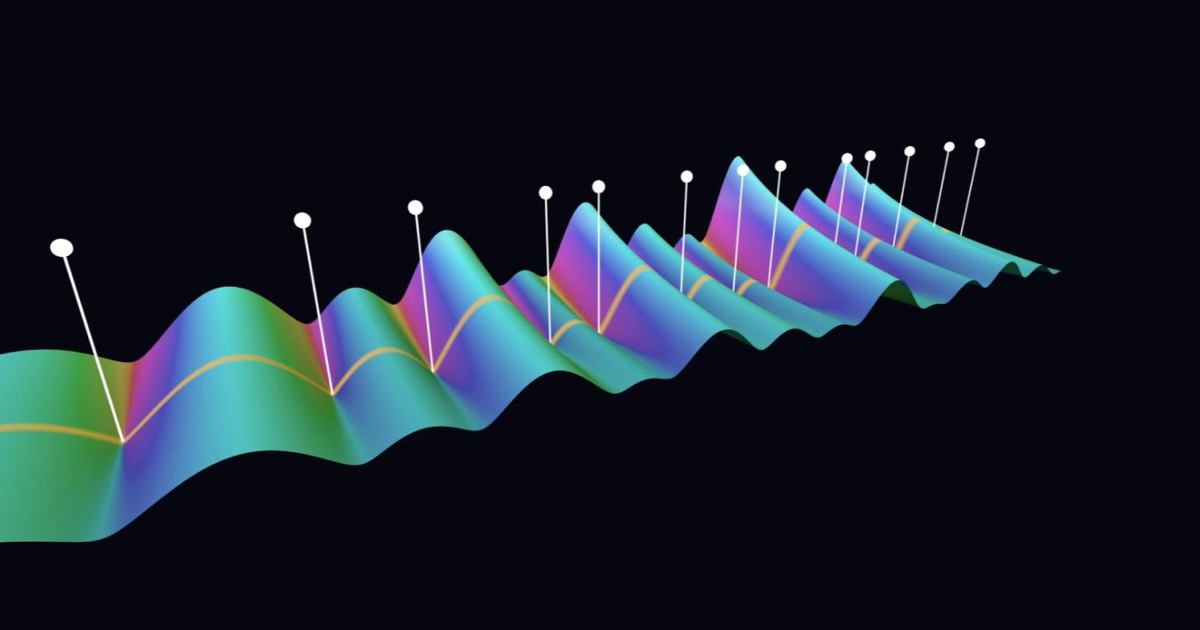
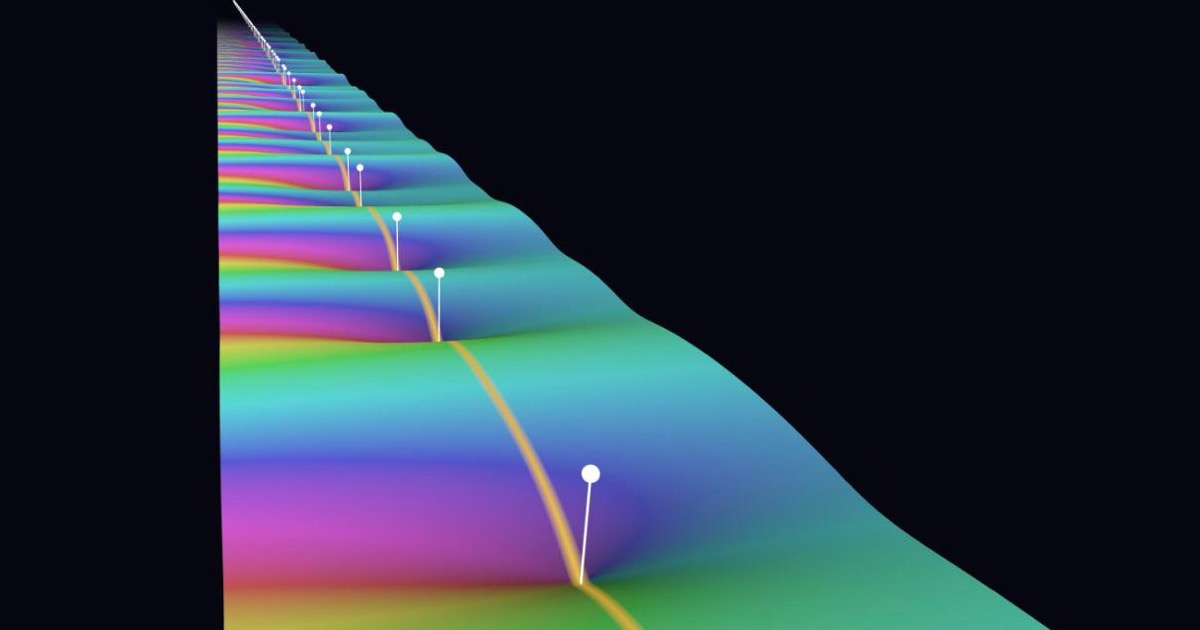
The whole road: 100 zeros, a dated status line, and the plan's steps 1 and 2 (#5)
index.html now draws the land from Re(s) = -0.5 to 1.5 for heights 0 to
237, with pins on the first 100 nontrivial zeros and a roll call that
lights each pin only if its zero passes the self-check.

- zeta is computed on a grid by Euler-Maclaurin summation (worst error
  8e-4 against mpmath over the baked region). The old Borwein routine
  was only good to height 60.
- Height is (2/pi) atan|zeta|, so the pole fits and every zero is a pit.
- The road stops at 237 because zeros 101 and 102 are at 237.77 and
  239.56 and would have no pin.
- Two self-checks: every listed zero is a zero, and the mesh is not
  flipped (checked by world position).
- The start view looks north up the road. Auto-rotate is removed.

The page and the README now carry one dated, attributed sentence about
the 20 Nov 2026 Lean proof. PLAN.md marks steps 1 and 2 done.

The scene was built and tested as a scratch page by the planning
session; this change ports it with its test switches removed.

diff --git a/index.html b/index.html
@@ -31,24 +31,28 @@
   p, details { margin: .5rem 0 0; }
   .tag { color: #f5c542; }
   .small { font-size: .85rem; color: #b9b6cc; }
+  #count { position: fixed; top: 0; right: 0; margin: 1rem 1.5rem; color: #f5c542; font-size: 1.5rem; font-variant-numeric: tabular-nums; pointer-events: none; }
   a, summary { color: #8fd3ff; pointer-events: auto; }
   summary { cursor: pointer; }
-  @media (max-width: 30rem) { h1 { font-size: 2rem; } main { font-size: .9rem; padding: 1rem; border-radius: 0; } }
+  @media (max-width: 30rem) { h1 { font-size: 2rem; } main { font-size: .9rem; padding: 1rem; border-radius: 0; } #proof-status { display: none; } #count { font-size: 1rem; margin: .5rem .75rem; } }   /* phones: the status would leave no room for the scene */
   @media (max-height: 30rem) and (orientation: landscape) { .long { display: none; } }
 </style>
 </head>
 <body>
-<canvas id="world" role="img" aria-label="3D terrain showing the size of the Riemann zeta function over the critical strip. Thirteen pins mark its first zeros, all on the gold line where the real part is one half."></canvas>
+<canvas id="world" role="img" aria-label="3D terrain showing the size of the Riemann zeta function. One hundred pins mark its first nontrivial zeros, all on the gold line where the real part is one half."></canvas>
+<!-- The roll-call counter. It sits outside the text panel so it stays readable on a shared screen. -->
+<p id="count"></p>
 <main>
   <h1>Zeta World</h1>
   <p class="tag">The Riemann hypothesis, as a place you can look at.</p>
-  <p class="long">This landscape is the size of the Riemann zeta function, which encodes how the prime numbers are spread out. Each pin stands on a zero, where the land drops to height zero. These are the first 13 of infinitely many. The Riemann hypothesis says they all sit on the gold line.</p>
-  <p class="long small">Posed in 1859. Trillions of zeros have been checked by computer and every one is on the line. This page shows what the hypothesis says. It proves nothing.</p>
+  <p class="long">This landscape is the size of the Riemann zeta function, which encodes how the prime numbers are spread out. Each pin stands on a zero, where the land drops to height zero. These are the first 100 of infinitely many. The Riemann hypothesis says they all sit on the gold line.</p>
+  <!-- The one place this page says anything about proof. Keep it dated and attributed. -->
+  <p class="long small" id="proof-status">Status, 22 Nov 2026: a computer-checked proof of the Riemann hypothesis was released on 20 Nov and certified correct on 21 Nov in a <a href="https://leanprover-community.github.io/blog/posts/riemann-hypothesis/">joint statement of the Lean and Mathlib communities</a>. Its author has published it only as Lean code, with no paper yet, and it has not been peer reviewed. This page shows what the statement says. It proves nothing.</p>
   <!-- The script replaces this once the scene is running, so it also covers no JavaScript and a blocked CDN. -->
   <p class="small" id="status">Loading the 3D view. It needs JavaScript and WebGL.</p>
   <details class="small">
     <summary>How to read it</summary>
-    Height is |ζ(s)| over the critical strip, Re(s) from 0 to 1, drawn for Im(s) from 0 to 60. The hypothesis is about the zeros inside this strip. Color is the phase of ζ(s): cyan where it is positive, red where it is negative. The gold line is Re(s) = ½. The cut-off spike at one end is the pole at s = 1, where ζ is infinite.
+    Height is the size of ζ(s), squashed so the infinite pole fits: (2/π) atan |ζ(s)|. The land covers Re(s) from −0.5 to 1.5 and Im(s) from 0 to 237. Color is the phase of ζ(s): cyan where it is positive, red where it is negative. The gold line is Re(s) = ½, the middle of the critical strip (Re(s) from 0 to 1), which holds every nontrivial zero. The mound at the south end is the pole at s = 1, where ζ is infinite.
   </details>
   <p class="small">An early build for Sundai Hack 150. <a href="https://github.com/Alex-lop/zeta-world">Source on GitHub</a></p>
 </main>
@@ -57,44 +61,80 @@
 import * as THREE from 'three';
 import { OrbitControls } from 'three/addons/controls/OrbitControls.js';
 
+// ---- layout: tuned by eye in headless Chrome, 22 Nov -------------------------
+const WIDTH = 4, LEN = 1, RISE = 1;                // world units per unit of Re(s), per unit of Im(s), and the height of the pole.
+                                                   // RISE / LEN must stay near 1: a zero is a cone, and at 6 its walls hide every pit from a low camera
+const SIG0 = -0.5, SIG1 = 1.5, NS = 64, NT = 4096;
+const T_MAX = 237;                                 // the road ends between zero 100 (236.52) and zero 101 (237.77), so every well has a pin
+const FOG0 = 45, FOG1 = 130, FOG_H = 6.5;          // fog from 45 to 130 up to the start pose's height. Above that it scales with height
+const PIN = 1.5 * RISE, HEAD = 0.1;                // pin height and head radius
+const LUM0 = 0.06, LUM1 = 0.5;                     // lightness at the floor and how much full height adds: pits must read as dark
+const ROLL_MS = 40;                                // roll call: one pin every 40 ms, 4 s for all 100
+
 // ---- the math --------------------------------------------------------------
-// zeta(sigma + i t) by Borwein's algorithm (2000) for the alternating eta series:
-//   eta(s) = sum_k W[k] (k+1)^-s,   zeta(s) = eta(s) / (1 - 2^(1-s)).
-// Checked against mpmath at every vertex drawn (41 x 601): worst error 1e-12, at s = 1 + 54.4i.
-// Not uniform: the division is 0/0 at s = 1 + 2 pi i k / ln 2 (t = 9.06, 18.13, ... 54.39 on the sigma = 1 edge)
-// and the error grows like 1/distance to those points. Re-run the check if NS, NT or T_MAX change.
-// ponytail: N = 80 terms only holds to t ~ 60 (need N ~ 0.9 t + 25). Raise N with T_MAX,
-// and switch to Riemann-Siegel if the world ever goes past t of a few hundred.
-const N = 80, T_MAX = 60;
-const D = [];
-for (let i = 0, term = 1 / N, sum = 0; i <= N; i++) {
-  sum += term; D.push(N * sum);
-  term *= 4 * (N + i) * (N - i) / ((2 * i + 1) * (2 * i + 2));
-}
-const W = D.slice(0, N).map((d, k) => (k % 2 ? -1 : 1) * (1 - d / D[N]));
-const LN = W.map((_, k) => Math.log(k + 1));
+// Heights (imaginary parts) of the first 100 nontrivial zeros, from mpmath.zetazero.
+const ZEROS = [
+  14.134725, 21.022040, 25.010858, 30.424876, 32.935062, 37.586178, 40.918719, 43.327073, 48.005151, 49.773832,
+  52.970321, 56.446248, 59.347044, 60.831779, 65.112544, 67.079811, 69.546402, 72.067158, 75.704691, 77.144840,
+  79.337375, 82.910381, 84.735493, 87.425275, 88.809111, 92.491899, 94.651344, 95.870634, 98.831194, 101.317851,
+  103.725538, 105.446623, 107.168611, 111.029536, 111.874659, 114.320221, 116.226680, 118.790783, 121.370125, 122.946829,
+  124.256819, 127.516684, 129.578704, 131.087689, 133.497737, 134.756510, 138.116042, 139.736209, 141.123707, 143.111846,
+  146.000982, 147.422765, 150.053520, 150.925258, 153.024694, 156.112909, 157.597592, 158.849988, 161.188964, 163.030710,
+  165.537069, 167.184440, 169.094515, 169.911976, 173.411537, 174.754192, 176.441434, 178.377408, 179.916484, 182.207078,
+  184.874468, 185.598784, 187.228923, 189.416159, 192.026656, 193.079727, 195.265397, 196.876482, 198.015310, 201.264752,
+  202.493595, 204.189672, 205.394697, 207.906259, 209.576510, 211.690863, 213.347919, 214.547045, 216.169539, 219.067596,
+  220.714919, 221.430706, 224.007000, 224.983325, 227.421444, 229.337413, 231.250189, 231.987235, 233.693404, 236.524230,
+];
 
-function zeta(sigma, t) {                       // returns [re, im]
-  let er = 0, ei = 0;
-  for (let k = 0; k < N; k++) {
-    const m = W[k] * Math.exp(-sigma * LN[k]), a = t * LN[k];
-    er += m * Math.cos(a); ei -= m * Math.sin(a);
+// zeta(sigma + i t) on a (ns+1) x (nt+1) vertex grid by Euler-Maclaurin summation: N terms plus 3 Bernoulli corrections.
+// Returns { re, im } as Float32Arrays, index j * (ns + 1) + i, with i along sigma and j along t.
+// cos and sin depend only on (t, n) and n^-sigma only on (sigma, n), so the inner loop is two multiply-adds.
+// N = 128 is good to t of about 400. Keep t below about 3 N.
+function zetaGrid(sig0, sig1, ns, t0, t1, nt, N = 128) {
+  const W = ns + 1, H = nt + 1, re = new Float32Array(W * H), im = new Float32Array(W * H);
+  const ln = new Float64Array(N + 1), pw = new Float64Array(N * W), sr = new Float64Array(W), si = new Float64Array(W);
+  for (let n = 1; n <= N; n++) {
+    ln[n] = Math.log(n);
+    for (let i = 0; i < W; i++) pw[(n - 1) * W + i] = Math.exp(-(sig0 + (sig1 - sig0) * i / ns) * ln[n]);
   }
-  const m = 2 ** (1 - sigma), a = t * Math.LN2, dr = 1 - m * Math.cos(a), di = m * Math.sin(a), q = dr * dr + di * di;
-  return [(er * dr + ei * di) / q, (ei * dr - er * di) / q];
+  for (let j = 0; j < H; j++) {
+    const t = t0 + (t1 - t0) * j / nt;
+    sr.fill(0); si.fill(0);
+    for (let n = 1; n < N; n++) {                                   // sum of n^-s for n < N
+      const c = Math.cos(t * ln[n]), s = -Math.sin(t * ln[n]), row = (n - 1) * W;
+      for (let i = 0; i < W; i++) { const m = pw[row + i]; sr[i] += m * c; si[i] += m * s; }
+    }
+    const c = Math.cos(t * ln[N]), s = -Math.sin(t * ln[N]), N2 = N * N;
+    for (let i = 0; i < W; i++) {
+      const sg = sig0 + (sig1 - sig0) * i / ns, m = pw[(N - 1) * W + i], pr = m * c, pi = m * s;   // p = N^-s
+      const a = sg - 1, d = a * a + t * t, k0 = j * W + i;
+      if (d < 1e-20) { re[k0] = Infinity; im[k0] = 0; continue; }   // the pole at s = 1
+      let zr = sr[i] + 0.5 * pr + N * (pr * a + pi * t) / d, zi = si[i] + 0.5 * pi + N * (pi * a - pr * t) / d;   // + N^-s / 2 + N^(1-s) / (s-1)
+      let wr = sg, wi = t, ur = pr / N, ui = pi / N, x;             // w = s (s+1) ..., u = N^(-s-2k+1)
+      zr += (wr * ur - wi * ui) / 12; zi += (wr * ui + wi * ur) / 12;
+      for (const [k, cf] of [[1, -1 / 720], [3, 1 / 30240]]) {
+        x = wr * (sg + k) - wi * t; wi = wr * t + wi * (sg + k); wr = x;
+        x = wr * (sg + k + 1) - wi * t; wi = wr * t + wi * (sg + k + 1); wr = x;
+        ur /= N2; ui /= N2;
+        zr += cf * (wr * ur - wi * ui); zi += cf * (wr * ui + wi * ur);
+      }
+      re[k0] = zr; im[k0] = zi;
+    }
+  }
+  return { re, im };
 }
 
-// Imaginary parts of the first 13 nontrivial zeros (all those with t < 60), from mpmath.zetazero.
-const ZEROS = [14.134725, 21.022040, 25.010858, 30.424876, 32.935062, 37.586178, 40.918719,
-               43.327073, 48.005151, 49.773832, 52.970321, 56.446248, 59.347044];
-console.assert(ZEROS.every(t => Math.hypot(...zeta(0.5, t)) < 1e-5), 'zeta self-check failed: a listed zero is not a zero');
+// Self-check: every listed zero is a zero, and zeta(2) = pi^2 / 6.
+const size = (sigma, t) => { const z = zetaGrid(sigma, sigma, 1, t, t, 1); return Math.hypot(z.re[0], z.im[0]); };
+const CHECKED = ZEROS.map(t => size(0.5, t) < 1e-4), ZETA2_OK = Math.abs(size(2, 0) - Math.PI ** 2 / 6) < 1e-6;
+console.assert(CHECKED.every(Boolean) && ZETA2_OK, 'zeta self-check failed');
 
 // ---- the world -------------------------------------------------------------
-// x = WIDTH * (Re(s) - 1/2), z = T_MAX/2 - Im(s) (t = 0 is the end nearest the start camera), y = |zeta(s)| capped at CAP.
-const WIDTH = 12, NS = 40, NT = 600, CAP = 9;   // CAP only flattens the pole at s = 1
-const zOf = t => T_MAX / 2 - t;
+// x = WIDTH * (Re(s) - 1/2), z = LEN * (T_MAX / 2 - Im(s)): north is -z, so east is on the right looking up the road.
+// y = RISE * (2 / pi) * atan|zeta(s)|: a zero is a pit to the floor and the pole s = 1 is a spire of height RISE.
+const xOf = sigma => WIDTH * (sigma - 0.5), zOf = t => LEN * (T_MAX / 2 - t);
 
-const canvas = document.getElementById('world'), panel = document.querySelector('main'), status = document.getElementById('status');
+const canvas = document.getElementById('world'), panel = document.querySelector('main'), status = document.getElementById('status'), count = document.getElementById('count');
 let renderer;
 try { renderer = new THREE.WebGLRenderer({ canvas, antialias: true }); }
 catch (e) { status.textContent = 'This browser could not start WebGL, so the 3D view is off.'; throw e; }
@@ -102,45 +142,61 @@ renderer.setPixelRatio(Math.min(devicePixelRatio, 2));
 
 const scene = new THREE.Scene();
 scene.background = new THREE.Color(0x05060f);
-scene.fog = new THREE.Fog(0x05060f, 45, 130);
+scene.fog = new THREE.Fog(0x05060f, FOG0, FOG1);   // the render loop rescales it
 scene.add(new THREE.HemisphereLight(0xffffff, 0x1a1a3a, 1.6));
 const sun = new THREE.DirectionalLight(0xffffff, 2.2);
 sun.position.set(30, 25, 20);
 scene.add(sun);
 
-const terrain = new THREE.PlaneGeometry(WIDTH, T_MAX, NS, NT).rotateX(-Math.PI / 2);
+// Baked north to south (t from T_MAX down to 0): that is PlaneGeometry's row order after rotateX(-90 deg),
+// so the grid index is the vertex index and the fill loop needs no arithmetic.
+const { re, im } = zetaGrid(SIG0, SIG1, NS, T_MAX, 0, NT);
+
+const terrain = new THREE.PlaneGeometry(WIDTH * (SIG1 - SIG0), LEN * T_MAX, NS, NT).rotateX(-Math.PI / 2);
 const pos = terrain.attributes.position, colors = new Float32Array(pos.count * 3), c = new THREE.Color();
+const ROAD = NS * (0.5 - SIG0) / (SIG1 - SIG0);                             // the vertex column of Re(s) = 1/2
 for (let v = 0; v < pos.count; v++) {
-  const i = v % (NS + 1), sigma = i / NS, t = zOf(pos.getZ(v));
-  const [re, im] = zeta(sigma, t), a = Math.hypot(re, im), h = a < CAP ? a : CAP;   // the pole s = 1 gives NaN, which lands on CAP
-  pos.setY(v, h);
-  if (i === NS / 2) c.set(0xf5c542);                                         // the critical line, painted on
-  else c.setHSL((Math.atan2(im, re) / (2 * Math.PI) + 0.5) || 0, 0.75, 0.22 + 0.33 * Math.min(h / 4, 1));   // +0.5: positive real is cyan, so the gold line stands out
+  const y = RISE * (2 / Math.PI) * Math.atan(Math.hypot(re[v], im[v]));     // the pole is Infinity, which atan turns into RISE
+  pos.setY(v, y);
+  if (v % (NS + 1) === ROAD) c.set(0xf5c542);                               // the critical line, painted on
+  else c.setHSL(Math.atan2(im[v], re[v]) / (2 * Math.PI) + 0.5, 0.75, LUM0 + LUM1 * y / RISE);   // +0.5: positive real is cyan, so the gold line stands out
   c.toArray(colors, v * 3);
 }
 terrain.setAttribute('color', new THREE.BufferAttribute(colors, 3));
+// Mesh self-check, by world position: a north-south flip would lift the first pit, an east-west flip would move the spire off Re(s) = 1.
+const vPit = Math.round((1 - ZEROS[0] / T_MAX) * NT) * (NS + 1) + ROAD, vPole = NT * (NS + 1) + NS * (1 - SIG0) / (SIG1 - SIG0);
+console.assert(Math.abs(pos.getZ(vPit) - zOf(ZEROS[0])) < LEN * T_MAX / NT && pos.getY(vPit) < 0.05 * RISE
+  && Math.hypot(pos.getX(vPole) - xOf(1), pos.getZ(vPole) - zOf(0)) < 1e-3 && pos.getY(vPole) === RISE, 'terrain self-check failed: the mesh is flipped');
 terrain.computeVertexNormals();
 scene.add(new THREE.Mesh(terrain, new THREE.MeshStandardMaterial({ vertexColors: true, roughness: 0.55, metalness: 0.1, side: THREE.DoubleSide })));
 
-// Pin heads sit on top (y = 7, above every ridge away from the pole) so no ridge hides them; the stalk's foot is the zero.
-const pin = new THREE.CylinderGeometry(0.04, 0.04, 7).translate(0, 3.5, 0), head = new THREE.SphereGeometry(0.28, 16, 12).translate(0, 7, 0);
-const glow = new THREE.MeshBasicMaterial({ color: 0xffffff, fog: false });
-for (const t of ZEROS) {
-  const marker = new THREE.Group().add(new THREE.Mesh(pin, glow), new THREE.Mesh(head, glow));
+// Pin heads sit above everything (the land never exceeds RISE) so no ridge hides them; the stalk's foot is the zero.
+const pin = new THREE.CylinderGeometry(HEAD / 7, HEAD / 7, PIN).translate(0, PIN / 2, 0), head = new THREE.SphereGeometry(HEAD, 16, 12).translate(0, PIN, 0);
+const dim = new THREE.MeshBasicMaterial({ color: 0x4a4d66 }), glow = new THREE.MeshBasicMaterial({ color: 0xffffff, fog: false });
+const markers = ZEROS.map(t => {
+  const marker = new THREE.Group().add(new THREE.Mesh(pin, dim), new THREE.Mesh(head, dim));
   marker.position.set(0, 0, zOf(t));
   scene.add(marker);
+  return marker;
+});
+
+// Roll call: pins light up south to north, and a pin only lights (and counts) if its zero passed the self-check above.
+const still = matchMedia('(prefers-reduced-motion: reduce)').matches;
+let lit = 0, passed = 0;
+function rollCall(ms) {
+  const n = still ? ZEROS.length : Math.min(ZEROS.length, ms / ROLL_MS);
+  if (lit >= n) return;
+  for (; lit < n; lit++) if (CHECKED[lit]) { passed++; for (const m of markers[lit].children) m.material = glow; }
+  count.textContent = `${passed} / ${ZEROS.length} zeros checked`;
 }
 
-const camera = new THREE.PerspectiveCamera(50, 1, 0.1, 400);
-camera.position.set(26, 13, 10);                // from the Re(s) = 1 side, so t runs left to right
+const camera = new THREE.PerspectiveCamera(50, 1, 0.1, 1000);
+camera.position.set(-3.5, 6.5, zOf(7));          // start pose: west of the road at Im(s) = 7, low, looking north up it
 const controls = new OrbitControls(camera, canvas);
-controls.target.set(0, 1, -3);
+controls.target.set(0, 0, zOf(22));              // 23 degrees down: any lower and the ridge south of each pit hides it
 controls.enableDamping = true;
 controls.maxPolarAngle = Math.PI * 0.49;        // stay above the floor
-controls.minDistance = 4; controls.maxDistance = 110;
-controls.autoRotate = !matchMedia('(prefers-reduced-motion: reduce)').matches;
-controls.autoRotateSpeed = 0.35;
-controls.addEventListener('start', () => { controls.autoRotate = false; });
+controls.minDistance = 2; controls.maxDistance = 300;   // 300 fits the whole road on screen
 
 function resize() {
   // Portrait: frame the scene in the space above the text, and widen the view so the whole strip still fits.
@@ -153,10 +209,12 @@ addEventListener('resize', resize);
 panel.querySelector('details').addEventListener('toggle', resize);         // the panel's height just changed
 resize();
 
-let last = performance.now();
+const start = performance.now();
 renderer.setAnimationLoop(now => {
-  controls.update(Math.min((now - last) / 1000, 0.1));                      // seconds, so auto-rotate ignores the refresh rate
-  last = now;
+  rollCall(now - start);
+  controls.update();
+  const k = Math.max(camera.position.y / FOG_H, 1);                         // fog thins as the camera climbs: low down the road vanishes into it,
+  scene.fog.near = FOG0 * k; scene.fog.far = FOG1 * k;                      // from high up the whole road is clear
   renderer.render(scene, camera);
 });
 status.textContent = 'Drag to orbit, scroll or pinch to zoom.';

diff --git a/PLAN.md b/PLAN.md
@@ -9,9 +9,9 @@ Zeta landscapes and "zeros build the primes" sliders have been made many times, 
 ## Where things stand
 
 - **Live page:** https://alex-lop.github.io/zeta-world/ (GitHub Pages, served from `main` at the repo root). It is one `index.html`, no build step, with three.js 0.187.0 loaded from jsDelivr through an import map.
-- **What it shows:** the terrain of `|ζ(s)|` over the critical strip for heights 0 to 60, coloured by phase, the line Re(s) = 1/2 in gold, and pins on the first 13 zeros. The camera orbits.
-- **What it lacks:** the other 87 zeros, anything about primes, a guided path, and any sign of what is proven and what is claimed.
-- **Step 2 of this plan has been built once already,** in a scratch copy outside the repo, to test the plan. It works: all 100 zeros, the long road, a counter, and a start view of pits in a straight row running into fog. See build step 2 for where it is.
+- **What it shows:** the land from Re(s) = -0.5 to 1.5 for heights 0 to 237, coloured by phase, the gold line Re(s) = 1/2 with pins on the first 100 zeros, a roll-call counter, and the dated status line.
+- **What it lacks:** anything about primes, the walls and slabs, and a guided path.
+- **Build steps 1 and 2 are done and on `main`** (22 Nov, mid-afternoon). The work left starts at step 0, the card, and step 3, the primes panel.
 - **A second page is in an open pull request** (PR #2, from a teammate): `landscape.html`, a free explorer. See "Two pages" below.
 
 How the README's five steps map onto this plan:
@@ -19,8 +19,8 @@ How the README's five steps map onto this plan:
 | README step | State now | In this plan |
 |---|---|---|
 | 1. Understand it first | not written down | "The math in plain words" below |
-| 2. First picture (terrain) | done to height 60 | build step 2 extends it to height 237 |
-| 3. Mark the zeros | 13 of 100 | build step 2 |
+| 2. First picture (terrain) | done to height 237 | build step 2, done |
+| 3. Mark the zeros | 100 of 100 | build step 2, done |
 | 4. Zeros build the primes | not started | build step 3, the centre of the demo |
 | 5. Stretch: quasi-RH marker | not started | promoted to build step 4: it is cheap and now verified |
 | 5. Stretch: sound | not started | stretch idea 3 |
@@ -68,9 +68,9 @@ At an AI hack two days later, a flat "unproven" will look stale and a flat "prov
 
 Where the text stands today:
 
-- **`index.html`** was changed this afternoon to wording that asserts nothing either way: "This page shows what the hypothesis says. It proves nothing." That is safe as it is.
-- **`README.md`** still says "not proven" under "Status of the math" and "the most famous unsolved problem in math" in its opening.
-- **Left to decide:** whether the dated sentence goes on screen. I recommend yes, because the slabs in build step 4 need their dates to mean anything. If yes, it replaces the last two sentences of the page's "Posed in 1859" paragraph, which say nearly the same thing as the end of the recommended status.
+- **`index.html`** now carries the dated sentence above, in the paragraph with id `proof-status`. That paragraph is the one place the page says anything about proof.
+- **`README.md`** carries the same sentence under "Status of the math".
+- **Decided 22 Nov:** the dated sentence is on screen. To change the wording, edit that paragraph and the README together.
 
 This news also hands the demo its story. The walls that fence in the zeros have stood at 0 and 1 since 1896. Last month a proof ruled out everything outside 1/8 to 7/8. Two days ago a computer-checked proof was released that closes the gap all the way to the line.
 
@@ -119,8 +119,8 @@ Two limits to design around. A view of the whole road is a thin band 8 wide and 
 | # | Step | Estimate | After it you can show |
 |---|---|---|---|
 | 0 | The project card | 10 min | a card in the vote |
-| 1 | One status line | 10 min | |
-| 2 | The whole road: bring in the scratch build | 30 min | the hero screenshot |
+| 1 | One status line | done | |
+| 2 | The whole road | done | the hero screenshot |
 | 3 | Zeros to primes panel | 1 h 30 | the part that teaches |
 | 4 | Walls and slabs | 30 min | what is proved and what is claimed |
 | 5 | The tour | 1 h | the whole story, hands off |
@@ -142,6 +142,8 @@ The panel comes before the walls because it is the part that teaches. If the day
 
 ### 1. One status line
 
+**Done 22 Nov.** The status is plain HTML, the paragraph with id `proof-status` in `index.html`, not a script constant: one sentence in one place needs no constant. When the tour needs it, read that paragraph's text. What the step asked for:
+
 - Add a `STATUS` constant and a `CAPTIONS` array at the top of the script in `index.html`. Every sentence about proof on that page reads from `STATUS`.
 - `STATUS` is separate from the page's existing `#status` paragraph and `status` variable, which hold the loading message and the controls hint.
 - Update the two README sentences listed above, and its line "This project visualizes the conjecture".
@@ -149,17 +151,7 @@ The panel comes before the walls because it is the part that teaches. If the day
 
 ### 2. The whole road
 
-This step exists as a working page, built to test this plan:
-
-a scratch folder on the build machine, outside the repo.
-
-That folder is temporary and can be cleared, so bring the page in soon. Screenshots of it are in `shots/` beside it. It is the current `index.html` plus this step, with the layout table above already applied.
-
-To bring it in:
-
-- Delete the lines marked `DRY-RUN ONLY` (11 of them). They add URL switches used for the screenshots.
-- Change `T_MAX` from 240 to 237. The scratch page was built to 240 and so has two unpinned wells at its north end. At 237 with the same 4096 rows there are exactly 100 wells on the road. The start pose is written in the scratch page as z = 113 and z = 98 for T_MAX = 240; write it as `zOf(7)` and `zOf(22)` so it follows the constant.
-- Update the page's own words, which the new scene makes false: the canvas `aria-label` ("Thirteen pins"), the sentence "These are the first 13 of infinitely many", and the "How to read it" paragraph. It should now say Re(s) from -0.5 to 1.5, heights 0 to 237, height squashed so the pole fits, colour is phase.
+**Done 22 Nov.** The test build of this step is now `index.html` on `main`, with its test switches removed, `T_MAX` = 237 and the page's words updated. Screenshots from the test build are not in the repo.
 
 What it does, for anyone building it fresh:
 
@@ -300,7 +292,7 @@ Notes on three.js 0.187 that differ from older tutorials: the package has no `.m
 
 ## Open questions
 
-1. **The status wording.** Recommended text is above. Everything on screen waits on it.
+1. **The status wording.** Settled 22 Nov: the recommended sentence is on the page and in the README.
 2. **The two-page split, and when PR #2 merges.** That is between you and your teammate.
 3. **The card:** its fields, the vote cutoff, and whether it can be edited after posting. Step 0 answers this.
 4. **The demo machine and browser.** Only Chrome on one Mac has been tested.

diff --git a/README.md b/README.md
@@ -2,11 +2,15 @@
 
 A way to visualize the Riemann hypothesis in 3D, built with Three.js for Sundai Hack 150 (Building 3D Worlds).
 
-The idea is still broad. The goal is a world you can fly through that lets you *see* the most famous unsolved problem in math and how it connects to the prime numbers.
+**Live: https://alex-lop.github.io/zeta-world/** · [The plan](PLAN.md)
+
+The idea is still broad. The goal is a world you can fly through that lets you *see* the Riemann hypothesis, the most famous problem in math, and how it connects to the prime numbers.
 
 ## Status of the math
 
-The Riemann hypothesis is **not proven**. In October 2026 a proof of a weaker "quasi-Riemann hypothesis" was announced, with its first version checked in Lean. This project visualizes the conjecture; it does not claim anything about it.
+As of 22 Nov 2026: a computer-checked proof of the Riemann hypothesis was released on 20 Nov and certified correct on 21 Nov in a [joint statement of the Lean and Mathlib communities](https://leanprover-community.github.io/blog/posts/riemann-hypothesis/). Its author has published it only as Lean code, with no paper yet, and it has not been peer reviewed. In October 2026 a proof of a weaker "quasi-Riemann hypothesis" (no zeros with real part above 7/8) was released, checked in Lean and also not peer reviewed.
+
+This project shows what the hypothesis says. It proves nothing.
 
 ## Getting started
 
